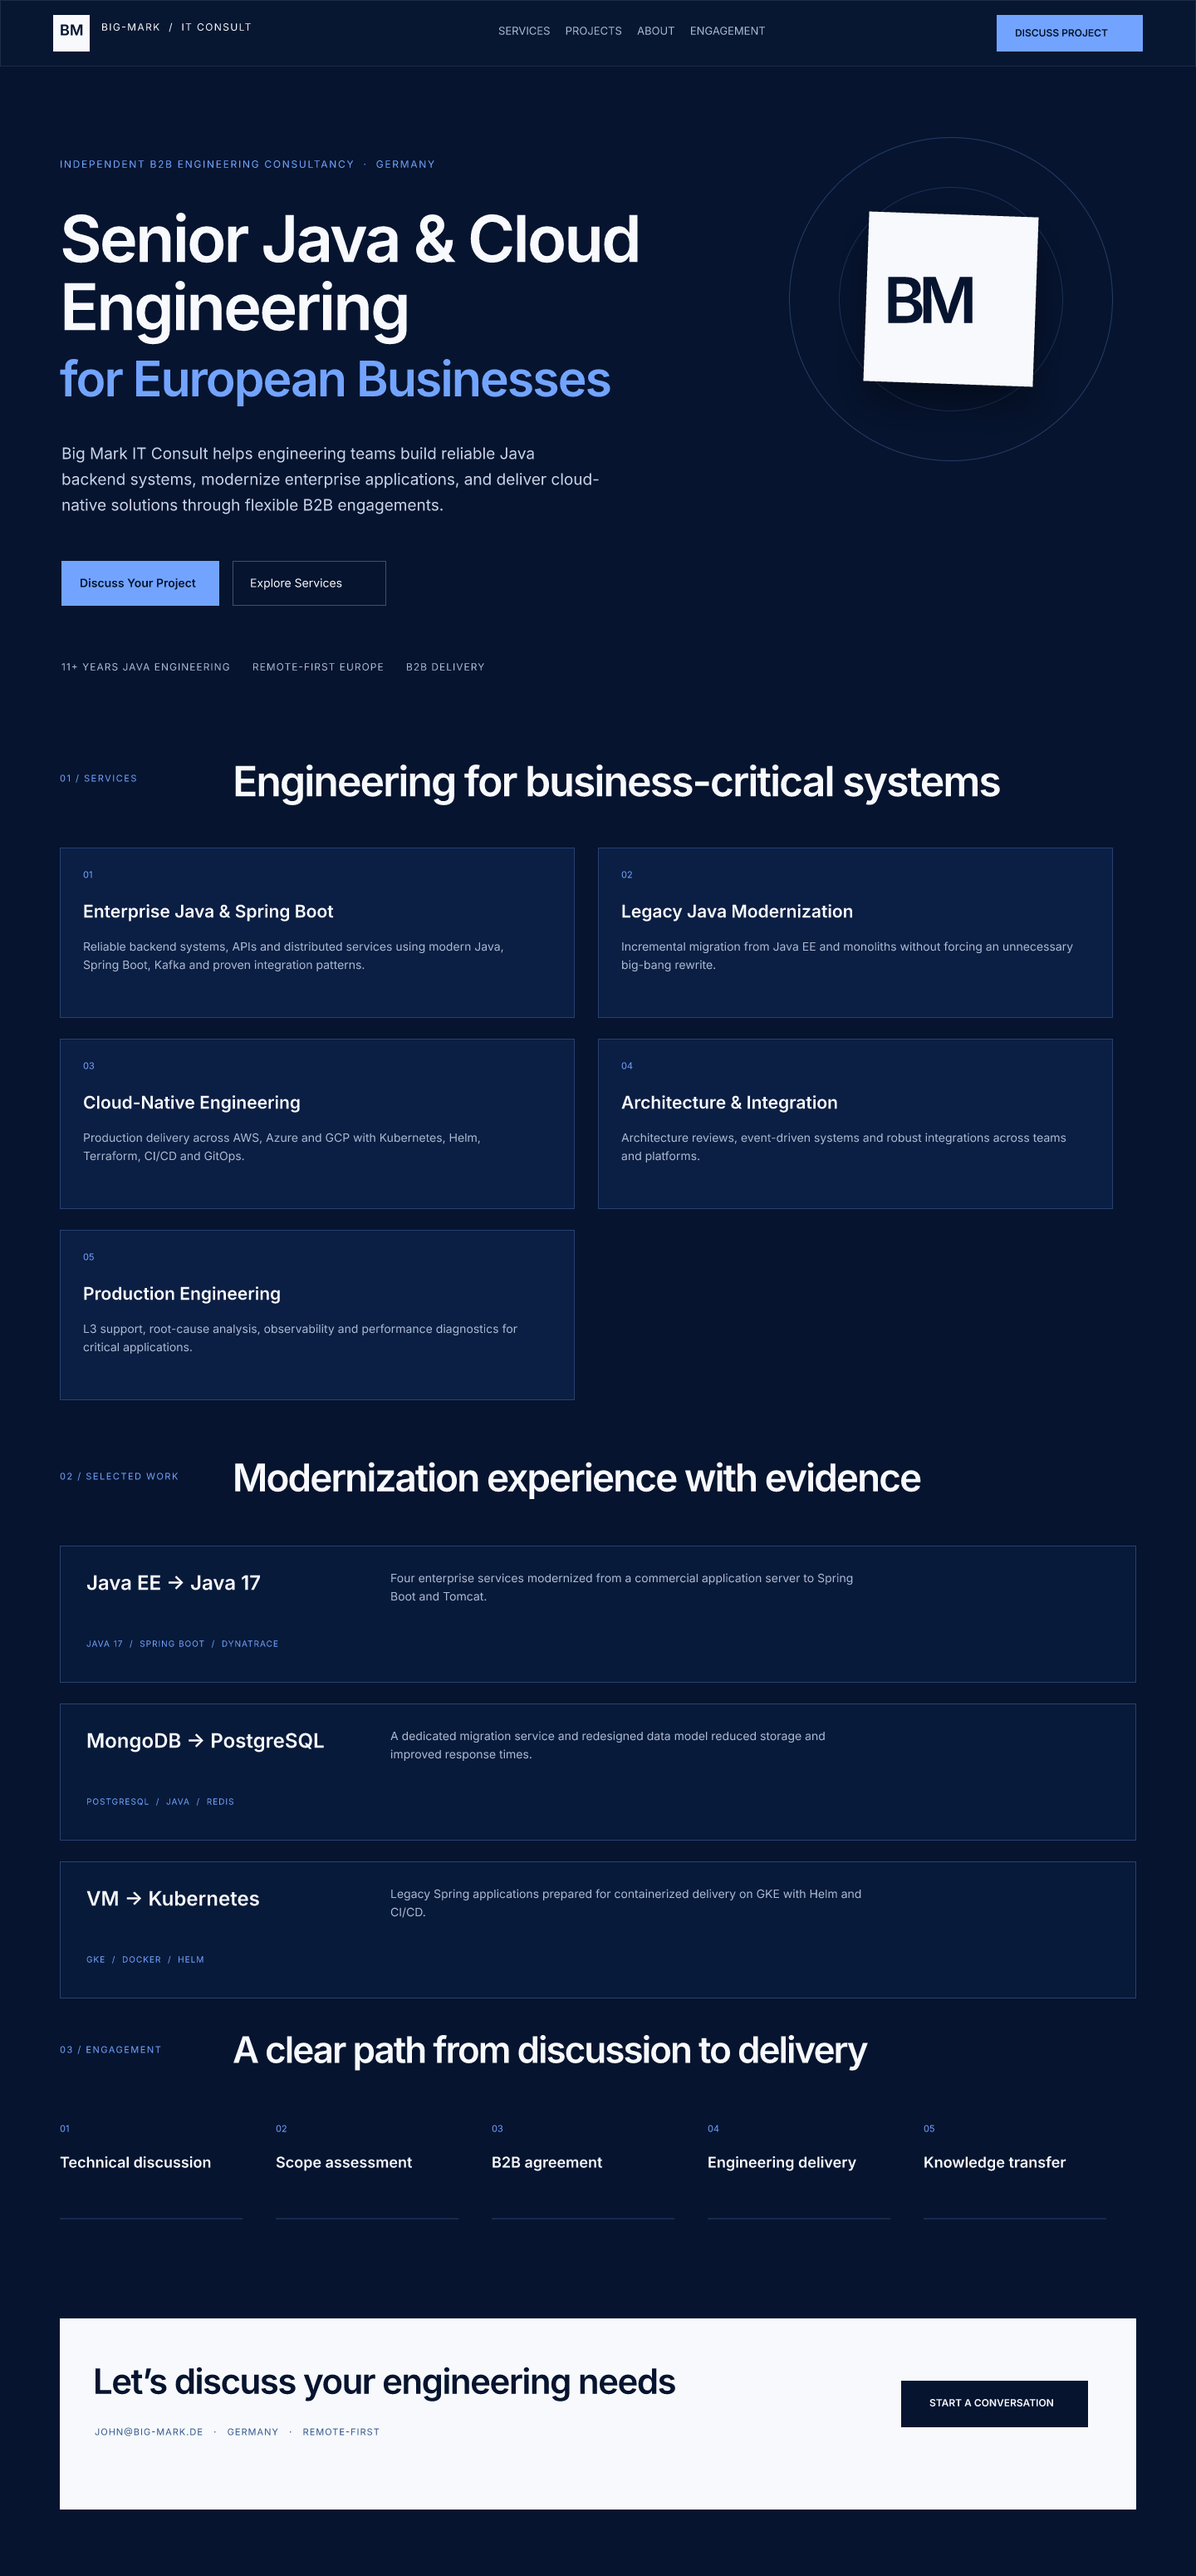
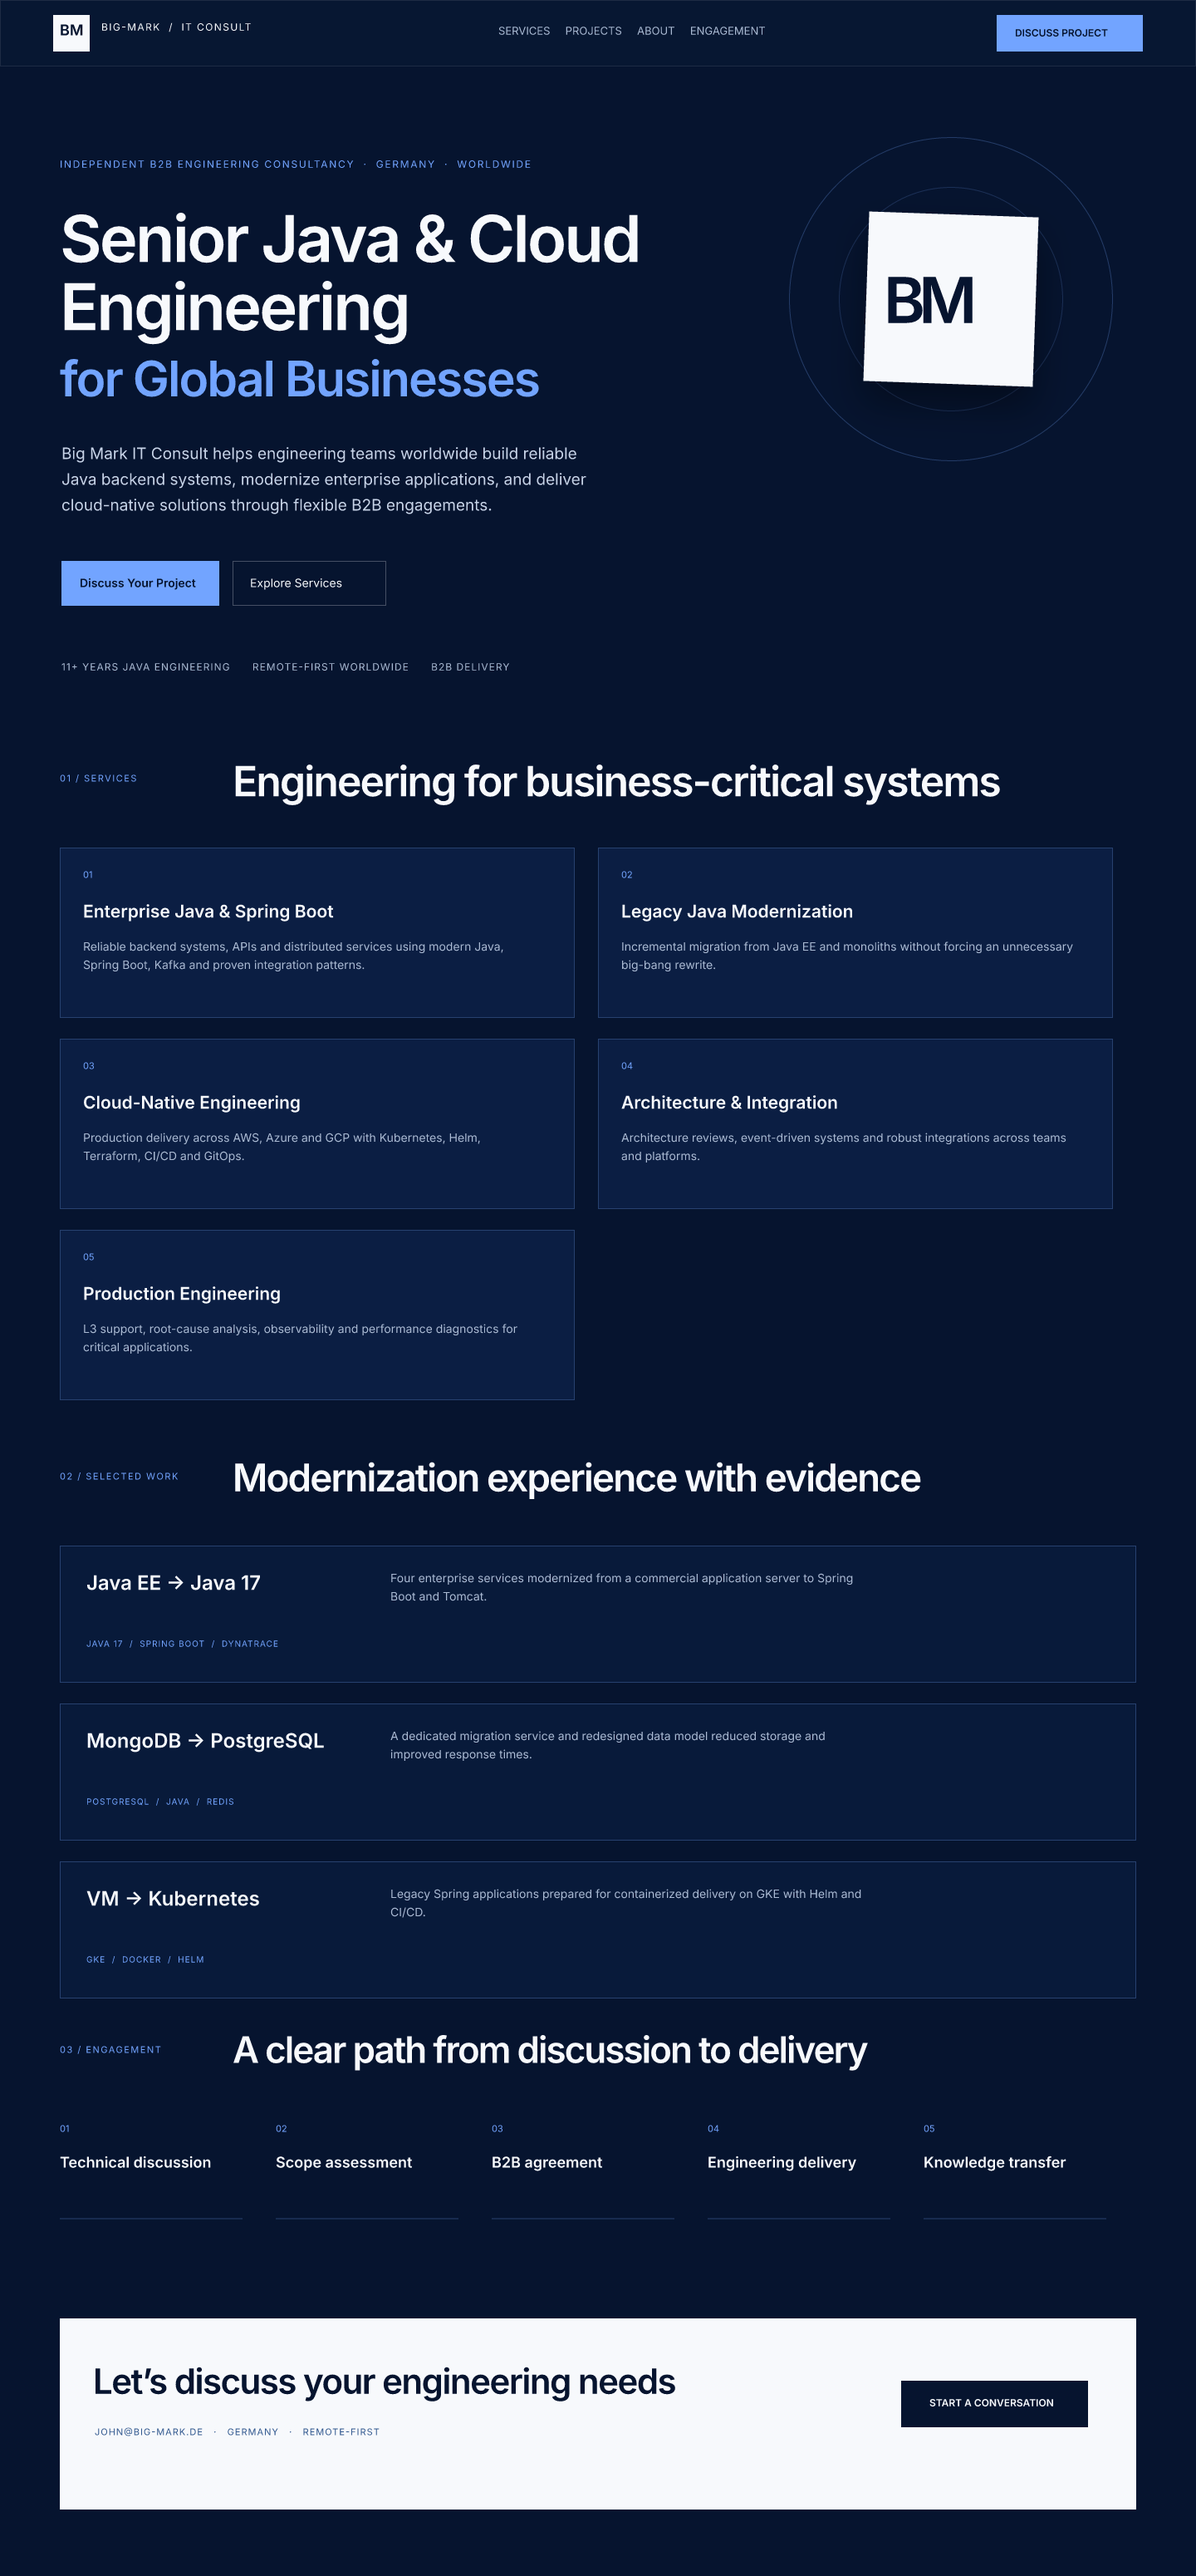
fix: position consultancy for global clients

Changed region(s): [[0.0625, 0.1239, 0.5, 0.2168]]

diff --git a/src/content.ts b/src/content.ts
@@ -22,7 +22,7 @@ const projects = {
 export const content = {
   de: {
     nav: { services: 'Leistungen', projects: 'Projekte', about: 'Über uns', engagement: 'Zusammenarbeit', contact: 'Kontakt' },
-    hero: { eyebrow: 'Unabhängige B2B-Engineering-Beratung · Deutschland', title: 'Java- und Cloud-Engineering für Unternehmen in Europa', text: 'Big Mark IT Consult unterstützt Entwicklungsteams bei der Modernisierung von Java-Unternehmensanwendungen, dem Aufbau zuverlässiger Backend-Systeme und der Umsetzung cloudnativer Lösungen.', primary: 'Projekt besprechen', secondary: 'Leistungen entdecken' },
+    hero: { eyebrow: 'Unabhängige B2B-Engineering-Beratung · Deutschland · Weltweit verfügbar', title: 'Java- und Cloud-Engineering für Unternehmen weltweit', text: 'Big Mark IT Consult unterstützt Entwicklungsteams weltweit bei der Modernisierung von Java-Unternehmensanwendungen, dem Aufbau zuverlässiger Backend-Systeme und der Umsetzung cloudnativer Lösungen.', primary: 'Projekt besprechen', secondary: 'Leistungen entdecken' },
     servicesTitle: 'Engineering für geschäftskritische Systeme', services: [
       ['Enterprise Java & Spring Boot Engineering', 'Wenn Backend-Systeme zuverlässig skalieren und sich sauber integrieren müssen.', 'Moderne Java- und Spring-Boot-Services, REST APIs, Kafka, Microservices und Enterprise-Integrationen.'],
       ['Legacy-Java-Modernisierung', 'Wenn Java EE, Monolithen oder technische Schulden die Delivery verlangsamen.', 'Schrittweise Migration, Refactoring und technische Erneuerung ohne unnötigen Big Bang.'],
@@ -39,7 +39,7 @@ export const content = {
   },
   en: {
     nav: { services: 'Services', projects: 'Projects', about: 'About', engagement: 'Engagement', contact: 'Contact' },
-    hero: { eyebrow: 'Independent B2B engineering consultancy · Germany', title: 'Senior Java & Cloud Engineering for European Businesses', text: 'Big Mark IT Consult helps engineering teams build reliable Java backend systems, modernize enterprise applications, and deliver cloud-native solutions through flexible B2B engagements.', primary: 'Discuss Your Project', secondary: 'Explore Our Services' },
+    hero: { eyebrow: 'Independent B2B engineering consultancy · Germany · Available worldwide', title: 'Senior Java & Cloud Engineering for Global Businesses', text: 'Big Mark IT Consult helps engineering teams worldwide build reliable Java backend systems, modernize enterprise applications, and deliver cloud-native solutions through flexible B2B engagements.', primary: 'Discuss Your Project', secondary: 'Explore Our Services' },
     servicesTitle: 'Engineering for business-critical systems', services: [
       ['Enterprise Java & Spring Boot Engineering', 'When backend systems must scale reliably and integrate cleanly.', 'Modern Java and Spring Boot services, REST APIs, Kafka, microservices and enterprise integrations.'],
       ['Legacy Java Modernization', 'When Java EE, monoliths or technical debt slow delivery.', 'Incremental migration, refactoring and technical renewal without an unnecessary big bang.'],

diff --git a/src/react/App.tsx b/src/react/App.tsx
@@ -25,7 +25,11 @@ function Meta({ locale, title, description }: { locale: Locale; title: string; d
     setLink('alternate', `https://big-mark.de${dePath}`, 'de'); setLink('alternate', `https://big-mark.de${enPath}`, 'en'); setLink('alternate', 'https://big-mark.de/', 'x-default');
     let structured = document.querySelector<HTMLScriptElement>('script[data-organization-schema]');
     if (!structured) { structured = document.createElement('script'); structured.type = 'application/ld+json'; structured.dataset.organizationSchema = ''; document.head.append(structured); }
-    structured.text = JSON.stringify({ '@context': 'https://schema.org', '@type': 'ProfessionalService', name: 'BIG-MARK IT Consult', url: 'https://big-mark.de', email: 'john@big-mark.de', areaServed: 'Europe', founder: { '@type': 'Person', name: 'Johnson Eyo' }, serviceType: ['Java Engineering', 'Cloud Engineering', 'Software Architecture', 'Application Modernization'] });
+    structured.text = JSON.stringify({ '@context': 'https://schema.org', '@type': 'ProfessionalService', name: 'BIG-MARK IT Consult', url: 'https://big-mark.de', email: 'john@big-mark.de', areaServed: 'Worldwide', founder: { '@type': 'Person', name: 'Johnson Eyo' }, serviceType: ['Java Engineering', 'Cloud Engineering', 'Software Architecture', 'Application Modernization'] });
+    document.querySelectorAll('p').forEach((element) => {
+      if (element.textContent === 'Germany · Remote-first Europe') element.textContent = 'Germany · Remote-first worldwide';
+      if (element.textContent?.includes('REMOTE-FIRST EUROPE')) element.textContent = element.textContent.replace('REMOTE-FIRST EUROPE', 'REMOTE-FIRST WORLDWIDE');
+    });
   }, [locale, title, description, pathname]);
   return null;
 }
